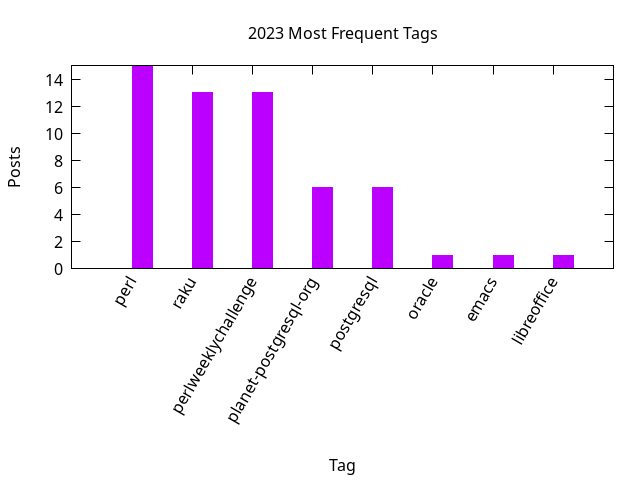
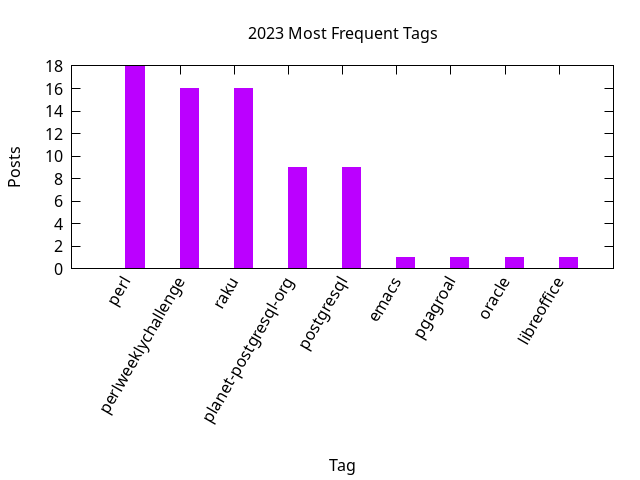
Stats update

diff --git a/_includes/stats/2023.md b/_includes/stats/2023.md
@@ -1,17 +1,18 @@
 <a name="2023" />
 ## 2023 (work in progress)
 
-**24 total posts** have been written on 2023.
-There have been *8 different tags* used, the most
+**30 total posts** have been written on 2023.
+There have been *9 different tags* used, the most
 popular being (sorted by number of posts):
  
-- *perl* (15 posts)  
-- *raku* (13 posts)  
-- *perlweeklychallenge* (13 posts)  
-- *planet-postgresql-org* (6 posts)  
-- *postgresql* (6 posts)  
-- *oracle* (1 posts)  
+- *perl* (18 posts)  
+- *perlweeklychallenge* (16 posts)  
+- *raku* (16 posts)  
+- *planet-postgresql-org* (9 posts)  
+- *postgresql* (9 posts)  
 - *emacs* (1 posts)  
+- *pgagroal* (1 posts)  
+- *oracle* (1 posts)  
 - *libreoffice* (1 posts).<br/>
 <br/>
 The following is the overall 2023 post ratio by month:
@@ -31,7 +32,7 @@ The following is the overall 2023 post ratio by tag (showing max 30 tags):
 
 <div align="right">
 <small>
-Last generated on 2023-04-03 at 13:38
+Last generated on 2023-05-04 at 13:19
 </small>
 </div>
 
